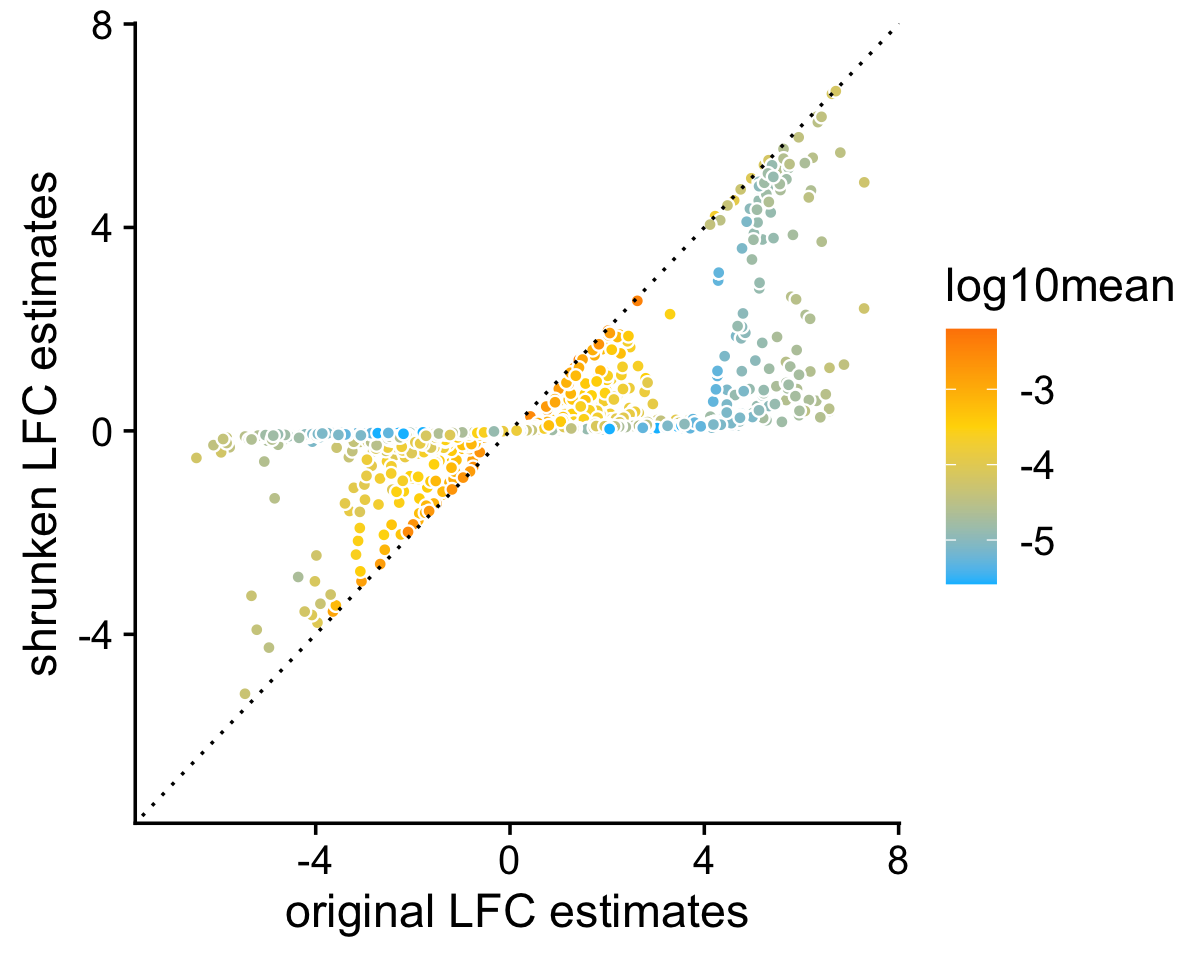
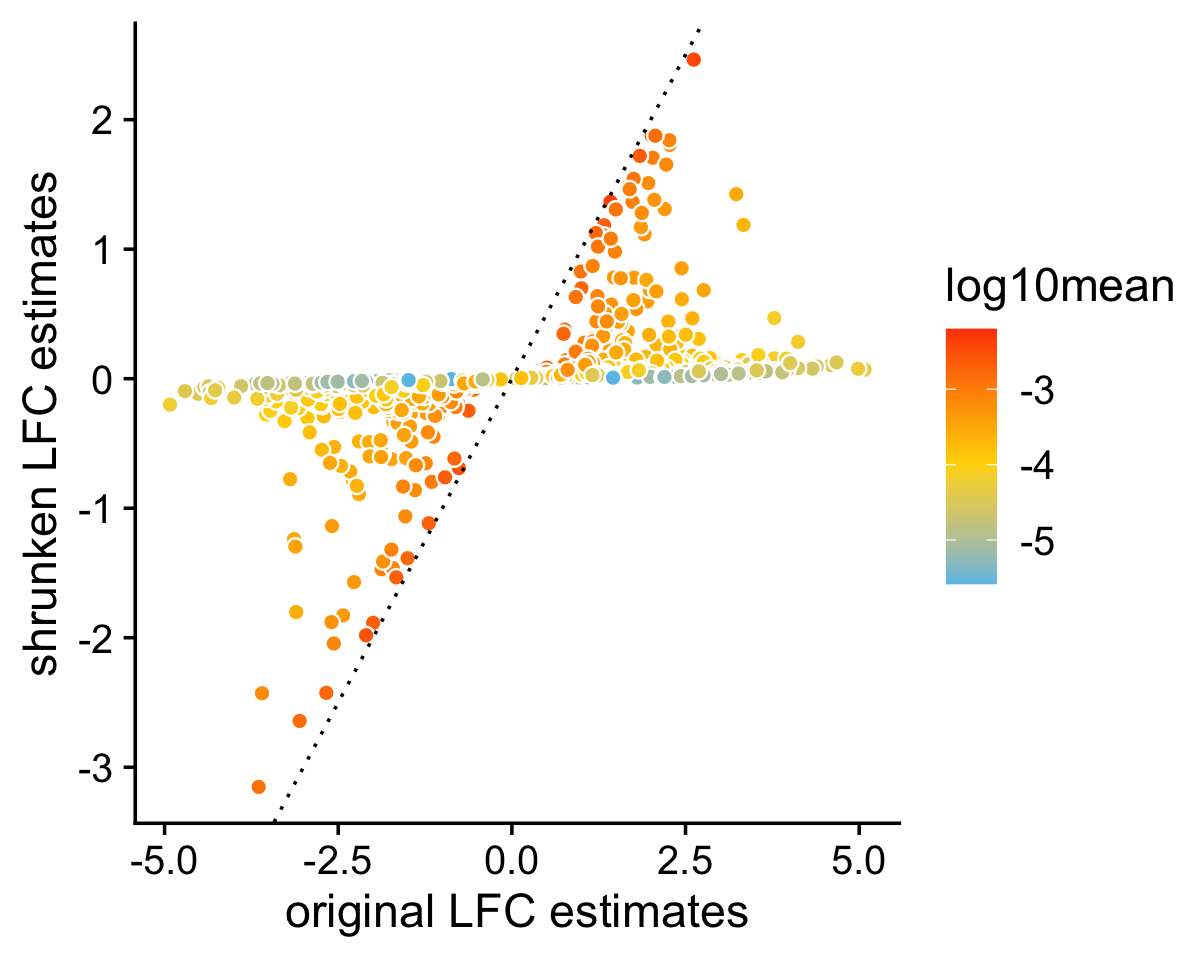
Added draft plots to de_analysis_detailed_look investigation.

diff --git a/docs/de_analysis_detailed_look.html b/docs/de_analysis_detailed_look.html
@@ -414,16 +414,16 @@ This reproducible <a href="http://rmarkdown.rstudio.com">R Markdown</a> analysis
 <div class="panel panel-default">
 <div class="panel-heading">
 <p class="panel-title">
-<a data-toggle="collapse" data-parent="#workflowr-checks" href="#strongRepositoryversionstrongahrefhttpsgithubcomstephenslabsinglecelltopicstree6d639935d7369c9e29089d07777877134d21ce22targetblank6d63993a"> <span class="glyphicon glyphicon-ok text-success" aria-hidden="true"></span> <strong>Repository version:</strong> <a href="https://github.com/stephenslab/single-cell-topics/tree/6d639935d7369c9e29089d07777877134d21ce22" target="_blank">6d63993</a> </a>
+<a data-toggle="collapse" data-parent="#workflowr-checks" href="#strongRepositoryversionstrongahrefhttpsgithubcomstephenslabsinglecelltopicstreeeceb899ccb4524fe9b3afc10b3a2f9f86ae9e2d0targetblankeceb899a"> <span class="glyphicon glyphicon-ok text-success" aria-hidden="true"></span> <strong>Repository version:</strong> <a href="https://github.com/stephenslab/single-cell-topics/tree/eceb899ccb4524fe9b3afc10b3a2f9f86ae9e2d0" target="_blank">eceb899</a> </a>
 </p>
 </div>
[2 lines of base64/hex data omitted]
 <div class="panel-body">
 <p>
 Great! You are using Git for version control. Tracking code development and connecting the code version to the results is critical for reproducibility.
 </p>
 <p>
-The results in this page were generated with repository version <a href="https://github.com/stephenslab/single-cell-topics/tree/6d639935d7369c9e29089d07777877134d21ce22" target="_blank">6d63993</a>. See the <em>Past versions</em> tab to see a history of the changes made to the R Markdown and HTML files.
+The results in this page were generated with repository version <a href="https://github.com/stephenslab/single-cell-topics/tree/eceb899ccb4524fe9b3afc10b3a2f9f86ae9e2d0" target="_blank">eceb899</a>. See the <em>Past versions</em> tab to see a history of the changes made to the R Markdown and HTML files.
 </p>
 <p>
 Note that you need to be careful to ensure that all relevant files for the analysis have been committed to Git prior to generating the results (you can use <code>wflow_publish</code> or <code>wflow_git_commit</code>). workflowr only checks the R Markdown file, but you know if there are other scripts or data files that it depends on. Below is the status of the Git repository when the results were generated:
@@ -447,6 +447,9 @@ Ignored files:
 
 Untracked files:
     Untracked:  plots/
+
+Unstaged changes:
+    Modified:   code/de_eval_functions.R
 
 </code></pre>
 <p>
@@ -485,6 +488,40 @@ Message
 </tr>
 </thead>
 <tbody>
+<tr>
+<td>
+Rmd
+</td>
+<td>
+<a href="https://github.com/stephenslab/single-cell-topics/blob/eceb899ccb4524fe9b3afc10b3a2f9f86ae9e2d0/analysis/de_analysis_detailed_look.Rmd" target="_blank">eceb899</a>
+</td>
+<td>
+Peter Carbonetto
+</td>
+<td>
+2021-10-13
+</td>
+<td>
+workflowr::wflow_publish(“de_analysis_detailed_look.Rmd”, verbose = TRUE)
+</td>
+</tr>
+<tr>
+<td>
+html
+</td>
+<td>
+<a href="https://rawcdn.githack.com/stephenslab/single-cell-topics/7236187363d75fb8477a6a6c7c2b726f371083e0/docs/de_analysis_detailed_look.html" target="_blank">7236187</a>
+</td>
+<td>
+Peter Carbonetto
+</td>
+<td>
+2021-10-13
+</td>
+<td>
+Revised the data simulation and added some “shrink vs. noshrink” plots
+</td>
+</tr>
 <tr>
 <td>
 Rmd
@@ -654,14 +691,14 @@ library(cowplot)
 source(&quot;../code/de_eval_functions.R&quot;)</code></pre>
 <div id="simulate-umi-counts" class="section level2">
 <h2>Simulate UMI counts</h2>
-<p>We begin by simulating counts from a rank-2 Poisson NMF model with parameters chosen to roughly replicate the UMI counts obtained from a single-cell RNA sequencing experiment. In particular, we simulate counts <span class="math inline">\(x_{ij} \sim \mathrm{Poisson}(\lambda_{ij})\)</span>, such that <span class="math inline">\(\lambda_{ij} = \sum_{k=1}^K s_i l_{ik} f_{jk}\)</span>, with <span class="math inline">\(K = 2\)</span>, For now, we focus our attention on the <span class="math inline">\(K = 2\)</span> case to simplify the analysis; comparing gene expression between three or topics brings some additional complications which aren’t necessary for assessing basic properties of the new DE methods. For more details on how the data are simulated, see function <code>simulate_twotopic_umi_data</code>.</p>
+<p>We begin by simulating counts from a rank-2 Poisson NMF model with parameters chosen to roughly mimic the UMI counts from a single-cell RNA sequencing experiment. In particular, we simulate counts <span class="math inline">\(x_{ij} \sim \mathrm{Poisson}(\lambda_{ij})\)</span> such that <span class="math inline">\(\lambda_{ij} = \sum_{k=1}^K s_i l_{ik} f_{jk}\)</span>, with <span class="math inline">\(K = 2\)</span>. For now, we focus our attention on the <span class="math inline">\(K = 2\)</span> case to simplify the evaluation of the DE methods; comparing gene expression between three or topics brings some additional complications which aren’t necessary for assessing basic properties of the new DE methods. For more details on how the data are simulated, see function <code>simulate_twotopic_umi_data</code>.</p>
 <pre class="r"><code>set.seed(1)
 dat &lt;- simulate_twotopic_umi_data()
 X &lt;- dat$X
 F &lt;- dat$F
 L &lt;- dat$L</code></pre>
 <p>Before fitting a topic model and running a DE analysis, we first inspect some basic properties of the simulated data.</p>
-<p>The sample sizes (total counts for each cell) in the simulated data are roughly normally distributed on the (base-10) log scale:</p>
+<p>The sample sizes (total counts for each cell) are roughly normal on the (base-10) log scale:</p>
 <pre class="r"><code>s &lt;- rowSums(X)
 p1 &lt;- ggplot(data.frame(s = log10(s)),aes(x = s)) +
   geom_histogram(color = &quot;white&quot;,fill = &quot;black&quot;,bins = 32) +
@@ -691,6 +728,17 @@ Date
 </tr>
 </thead>
 <tbody>
+<tr>
+<td>
+<a href="https://github.com/stephenslab/single-cell-topics/blob/7236187363d75fb8477a6a6c7c2b726f371083e0/docs/figure/de_analysis_detailed_look.Rmd/sizes-1.png" target="_blank">7236187</a>
+</td>
+<td>
+Peter Carbonetto
+</td>
+<td>
+2021-10-13
+</td>
+</tr>
 <tr>
 <td>
 <a href="https://github.com/stephenslab/single-cell-topics/blob/af856a2297d146d651175053b4f585eed647d894/docs/figure/de_analysis_detailed_look.Rmd/sizes-1.png" target="_blank">af856a2</a>
@@ -746,6 +794,17 @@ Date
 </tr>
 </thead>
 <tbody>
+<tr>
+<td>
+<a href="https://github.com/stephenslab/single-cell-topics/blob/7236187363d75fb8477a6a6c7c2b726f371083e0/docs/figure/de_analysis_detailed_look.Rmd/gene-expression-rates-1.png" target="_blank">7236187</a>
+</td>
+<td>
+Peter Carbonetto
+</td>
+<td>
+2021-10-13
+</td>
+</tr>
 <tr>
 <td>
 <a href="https://github.com/stephenslab/single-cell-topics/blob/af856a2297d146d651175053b4f585eed647d894/docs/figure/de_analysis_detailed_look.Rmd/gene-expression-rates-1.png" target="_blank">af856a2</a>
@@ -807,6 +866,17 @@ Date
 <tbody>
 <tr>
 <td>
+<a href="https://github.com/stephenslab/single-cell-topics/blob/7236187363d75fb8477a6a6c7c2b726f371083e0/docs/figure/de_analysis_detailed_look.Rmd/lfc-density-1.png" target="_blank">7236187</a>
+</td>
+<td>
+Peter Carbonetto
+</td>
+<td>
+2021-10-13
+</td>
+</tr>
+<tr>
+<td>
 <a href="https://github.com/stephenslab/single-cell-topics/blob/af856a2297d146d651175053b4f585eed647d894/docs/figure/de_analysis_detailed_look.Rmd/lfc-density-1.png" target="_blank">af856a2</a>
 </td>
 <td>
@@ -834,14 +904,12 @@ Peter Carbonetto
 </div>
 <div id="fit-multinomial-topic-model-to-umi-counts" class="section level2">
 <h2>Fit multinomial topic model to UMI counts</h2>
-<p>Here we fit a multinomial topic model to the simulated UMI count data. To simplify evaluation of the DE methods, we assume that the topic proportions are known, and set to the ground truth (that is, the values used to simulate the data), so that the only error that can arise is in the estimates of the expression rates.</p>
+<p>Here we fit a multinomial topic model to the simulated UMI count data. To simplify evaluation of the DE methods, we assume that the topic proportions are known, and set them to their ground truth values (that is, the values used to simulate the data), so that the only error that can arise is in the estimates of the expression rates <span class="math inline">\(f_{ij}\)</span> in the multinomial topic model.</p>
 <pre class="r"><code>fit0 &lt;- init_poisson_nmf(X,F = dat$F,L = with(dat,s*L))
 fit &lt;- fit_poisson_nmf(X,fit0 = fit0,numiter = 40,method = &quot;scd&quot;,
                        update.loadings = NULL,verbose = &quot;none&quot;)
-# Using 4 RcppParallel threads.
 fit &lt;- poisson2multinom(fit)
 summary(fit)
-# Set show.size.factors = TRUE, show.mixprops = TRUE and/or show.topic.reps = TRUE in print(...) for more information
 # Model overview:
 #   Number of data rows, n: 200
 #   Number of data cols, m: 10000
@@ -854,21 +922,15 @@ summary(fit)
 </div>
 <div id="de-analysis-with-and-without-shrinkage" class="section level2">
 <h2>DE analysis with and without shrinkage</h2>
-<p>First we perform a DE analysis without shrinking the LFC estimates:</p>
+<p>First we perform a DE analysis <em>without</em> shrinking the LFC estimates:</p>
 <pre class="r"><code>set.seed(1)
 de.noshrink &lt;- de_analysis(fit,X,shrink.method = &quot;none&quot;,
-                           control = list(nc = 4))
-# Using 4 RcppParallel threads.
-# Using 4 SOCK threads.
-# Progress bar cannot be shown when multithreading is used. For large data sets, the total runtime may be estimated by performing an initial test run with a small number of Monte Carlo samples, e.g., ns = 10; the total runtime should scale roughly linearly in ns, the number of Monte Carlo samples.
+                           control = list(ns = 1e4,nc = 4))
 # Fitting 10000 Poisson models with k=2 using method=&quot;scd&quot;.
 # Computing log-fold change statistics from 10000 Poisson models with k=2.</code></pre>
-<p>Next we perform a second DE analysis using adaptive shrinkage to shrink (and hopefully improve accuracy of) the LFC estimates:</p>
+<p>Now we perform a second DE analysis using adaptive shrinkage to shrink (and hopefully improve accuracy of) the LFC estimates:</p>
 <pre class="r"><code>set.seed(1)
-de &lt;- de_analysis(fit,X,shrink.method = &quot;ash&quot;,control = list(nc = 4))
-# Using 4 RcppParallel threads.
-# Using 4 SOCK threads.
-# Progress bar cannot be shown when multithreading is used. For large data sets, the total runtime may be estimated by performing an initial test run with a small number of Monte Carlo samples, e.g., ns = 10; the total runtime should scale roughly linearly in ns, the number of Monte Carlo samples.
+de &lt;- de_analysis(fit,X,shrink.method = &quot;ash&quot;,control = list(ns = 1e4,nc = 4))
 # Fitting 10000 Poisson models with k=2 using method=&quot;scd&quot;.
 # Computing log-fold change statistics from 10000 Poisson models with k=2.
 # Stabilizing posterior log-fold change estimates using adaptive shrinkage.</code></pre>
@@ -877,17 +939,52 @@ de &lt;- de_analysis(fit,X,shrink.method = &quot;ash&quot;,control = list(nc = 4
                    shrink    = de$postmean[,1],
                    log10mean = log10(de$f0))
 p4 &lt;- ggplot(pdat,aes(x = noshrink,y = shrink,fill = log10mean)) +
-  geom_point(shape = 21,color = &quot;white&quot;) +
+  geom_point(shape = 21,color = &quot;white&quot;,size = 2) +
   geom_abline(intercept = 0,slope = 1,color = &quot;black&quot;,linetype = &quot;dotted&quot;) +
   scale_fill_gradient2(low = &quot;deepskyblue&quot;,mid = &quot;gold&quot;,high = &quot;orangered&quot;,
-                       midpoint = -3.5) +
-  xlim(c(-7,7.3)) +
-  ylim(c(-7,7.3)) +
+                       midpoint = -4) +
   labs(x = &quot;original LFC estimates&quot;,
        y = &quot;shrunken LFC estimates&quot;) +
   theme_cowplot()
 print(p4)</code></pre>
 <p><img src="figure/de_analysis_detailed_look.Rmd/shrink-vs-noshrink-scatterplot-1.png" width="600" style="display: block; margin: auto;" /></p>
+<p>
+<button type="button" class="btn btn-default btn-xs btn-workflowr btn-workflowr-fig" data-toggle="collapse" data-target="#fig-shrink-vs-noshrink-scatterplot-1">
+Past versions of shrink-vs-noshrink-scatterplot-1.png
+</button>
+</p>
+<div id="fig-shrink-vs-noshrink-scatterplot-1" class="collapse">
+<div class="table-responsive">
+<table class="table table-condensed table-hover">
+<thead>
+<tr>
+<th>
+Version
+</th>
+<th>
+Author
+</th>
+<th>
+Date
+</th>
+</tr>
+</thead>
+<tbody>
+<tr>
+<td>
+<a href="https://github.com/stephenslab/single-cell-topics/blob/7236187363d75fb8477a6a6c7c2b726f371083e0/docs/figure/de_analysis_detailed_look.Rmd/shrink-vs-noshrink-scatterplot-1.png" target="_blank">7236187</a>
+</td>
+<td>
+Peter Carbonetto
+</td>
+<td>
+2021-10-13
+</td>
+</tr>
+</tbody>
+</table>
+</div>
+</div>
 <p><em>Add text here.</em></p>
 <pre class="r"><code>pdat &lt;- data.frame(noshrink = clamp(de.noshrink$z[,1],-4,+4),
                    shrink   = clamp(de$z[,1],-4,+4),
@@ -896,19 +993,53 @@ p5 &lt;- ggplot(pdat,aes(x = noshrink,color = de,fill = de)) +
   geom_histogram(bins = 64) +
   scale_color_manual(values = c(&quot;darkorange&quot;,&quot;darkblue&quot;)) +
   scale_fill_manual(values = c(&quot;darkorange&quot;,&quot;darkblue&quot;)) +
-  labs(x = &quot;LFC estimate&quot;,y = &quot;genes&quot;,title = &quot;without shrinkage&quot;) +
+  labs(x = &quot;z-score&quot;,y = &quot;genes&quot;,title = &quot;without shrinkage&quot;) +
   theme_cowplot()
 p6 &lt;- ggplot(pdat,aes(x = shrink,color = de,fill = de)) +
   geom_histogram(bins = 64) +
   scale_color_manual(values = c(&quot;darkorange&quot;,&quot;darkblue&quot;)) +
   scale_fill_manual(values = c(&quot;darkorange&quot;,&quot;darkblue&quot;)) +
-  labs(x = &quot;LFC estimate&quot;,y = &quot;genes&quot;,title = &quot;with shrinkage&quot;) +
+  labs(x = &quot;z-score&quot;,y = &quot;genes&quot;,title = &quot;with shrinkage&quot;) +
   theme_cowplot()
-print(plot_grid(p5,p6))
-# Warning: Removed 6 rows containing non-finite values (stat_bin).
-
-# Warning: Removed 6 rows containing non-finite values (stat_bin).</code></pre>
+print(plot_grid(p5,p6))</code></pre>
 <p><img src="figure/de_analysis_detailed_look.Rmd/shrink-vs-noshrink-zscores-1.png" width="960" style="display: block; margin: auto;" /></p>
+<p>
+<button type="button" class="btn btn-default btn-xs btn-workflowr btn-workflowr-fig" data-toggle="collapse" data-target="#fig-shrink-vs-noshrink-zscores-1">
+Past versions of shrink-vs-noshrink-zscores-1.png
+</button>
+</p>
+<div id="fig-shrink-vs-noshrink-zscores-1" class="collapse">
+<div class="table-responsive">
+<table class="table table-condensed table-hover">
+<thead>
+<tr>
+<th>
+Version
+</th>
+<th>
+Author
+</th>
+<th>
+Date
+</th>
+</tr>
+</thead>
+<tbody>
+<tr>
+<td>
+<a href="https://github.com/stephenslab/single-cell-topics/blob/7236187363d75fb8477a6a6c7c2b726f371083e0/docs/figure/de_analysis_detailed_look.Rmd/shrink-vs-noshrink-zscores-1.png" target="_blank">7236187</a>
+</td>
+<td>
+Peter Carbonetto
+</td>
+<td>
+2021-10-13
+</td>
+</tr>
+</tbody>
+</table>
+</div>
+</div>
 <p><em>Add text here.</em></p>
 <pre class="r"><code>pdat &lt;- data.frame(noshrink = 10^(-de.noshrink$lpval[,1]),
                    shrink   = 10^(-de$lpval[,1]),
@@ -925,11 +1056,93 @@ p8 &lt;- ggplot(pdat,aes(x = shrink,color = de,fill = de)) +
   scale_fill_manual(values = c(&quot;darkorange&quot;,&quot;darkblue&quot;)) +
   labs(x = &quot;p-value&quot;,y = &quot;genes&quot;,title = &quot;with shrinkage&quot;) +
   theme_cowplot()
-print(plot_grid(p7,p8))
-# Warning: Removed 6 rows containing non-finite values (stat_bin).
-
-# Warning: Removed 6 rows containing non-finite values (stat_bin).</code></pre>
+print(plot_grid(p7,p8))</code></pre>
 <p><img src="figure/de_analysis_detailed_look.Rmd/shrink-vs-noshrink-pvalues-1.png" width="960" style="display: block; margin: auto;" /></p>
+<p>
+<button type="button" class="btn btn-default btn-xs btn-workflowr btn-workflowr-fig" data-toggle="collapse" data-target="#fig-shrink-vs-noshrink-pvalues-1">
+Past versions of shrink-vs-noshrink-pvalues-1.png
+</button>
+</p>
+<div id="fig-shrink-vs-noshrink-pvalues-1" class="collapse">
+<div class="table-responsive">
+<table class="table table-condensed table-hover">
+<thead>
+<tr>
+<th>
+Version
+</th>
+<th>
+Author
+</th>
+<th>
+Date
+</th>
+</tr>
+</thead>
+<tbody>
+<tr>
+<td>
+<a href="https://github.com/stephenslab/single-cell-topics/blob/7236187363d75fb8477a6a6c7c2b726f371083e0/docs/figure/de_analysis_detailed_look.Rmd/shrink-vs-noshrink-pvalues-1.png" target="_blank">7236187</a>
+</td>
+<td>
+Peter Carbonetto
+</td>
+<td>
+2021-10-13
+</td>
+</tr>
+</tbody>
+</table>
+</div>
+</div>
+<p><em>Add text here.</em></p>
+<pre class="r"><code>i &lt;- which(fit$F[,1] - fit$F[,2] &gt; -1e-8)
+D &lt;- fastTopics:::min_kl_poisson(fit$F)
+pdat &lt;- data.frame(kl = pmin(D[,1],0.00025),
+                   de = factor(nonzero_lfc))
+pdat1 &lt;- pdat[i,]
+p9 &lt;- ggplot(pdat1,aes(x = kl,color = de,fill = de)) +
+  geom_histogram(bins = 64) +
+  scale_color_manual(values = c(&quot;darkorange&quot;,&quot;darkblue&quot;)) +
+  scale_fill_manual(values = c(&quot;darkorange&quot;,&quot;darkblue&quot;)) +
+  labs(x = &quot;K-L divergence&quot;,y = &quot;genes&quot;) +
+  theme_cowplot()
+pdat2 &lt;- data.frame(z  = clamp(de$z[,1],-4,+4),
+                    de = factor(nonzero_lfc))
+pdat2 &lt;- pdat2[i,]
+p10 &lt;- ggplot(pdat2,aes(x = z,color = de,fill = de)) +
+  geom_histogram(bins = 64) +
+  scale_color_manual(values = c(&quot;darkorange&quot;,&quot;darkblue&quot;)) +
+  scale_fill_manual(values = c(&quot;darkorange&quot;,&quot;darkblue&quot;)) +
+  labs(x = &quot;z-score&quot;,y = &quot;genes&quot;) +
+  theme_cowplot()
+print(plot_grid(p9,p10))</code></pre>
+<p><img src="figure/de_analysis_detailed_look.Rmd/etc-1-1.png" width="960" style="display: block; margin: auto;" /></p>
+<pre class="r"><code>pdat &lt;- data.frame(est       = de$est[,1],
+                   shrink    = de$postmean[,1],
+                   log10mean = log10(de$f0))
+p11 &lt;- ggplot(pdat,aes(x = est,y = shrink,fill = log10mean)) +
+  geom_point(shape = 21,color = &quot;white&quot;,size = 2) +
+  geom_abline(intercept = 0,slope = 1,color = &quot;black&quot;,linetype = &quot;dotted&quot;) +
+  scale_fill_gradient2(low = &quot;deepskyblue&quot;,mid = &quot;gold&quot;,high = &quot;orangered&quot;,
+                       midpoint = -4) +
+  labs(x = &quot;point estimates&quot;,
+       y = &quot;shrunken posterior estimates&quot;) +
+  theme_cowplot()
+print(p11)</code></pre>
+<p><img src="figure/de_analysis_detailed_look.Rmd/etc-2-1.png" width="960" style="display: block; margin: auto;" /></p>
+<pre class="r"><code>pdat1 &lt;- create_fdr_vs_power_curve(-D[,1],nonzero_lfc)
+pdat2 &lt;- create_fdr_vs_power_curve(-de.noshrink$lpval,nonzero_lfc)
+pdat3 &lt;- create_fdr_vs_power_curve(-de$lpval,nonzero_lfc)
+pdat  &lt;- rbind(cbind(pdat1,method = &quot;kl&quot;),
+               cbind(pdat2,method = &quot;noshrink&quot;),
+               cbind(pdat3,method = &quot;shrink&quot;))
+p12 &lt;- ggplot(pdat,aes(x = fdr,y = power,color = method)) +
+  geom_point(size = 0.75)  +
+  scale_color_manual(values = c(&quot;royalblue&quot;,&quot;limegreen&quot;,&quot;darkorange&quot;)) +
+  theme_cowplot()
+print(p12)</code></pre>
+<p><img src="figure/de_analysis_detailed_look.Rmd/etc-3,%20fig.height-1.png" width="540" style="display: block; margin: auto;" /></p>
 <br>
 <p>
 <button type="button" class="btn btn-default btn-workflowr btn-workflowr-sessioninfo" data-toggle="collapse" data-target="#workflowr-sessioninfo" style="display: block;">
